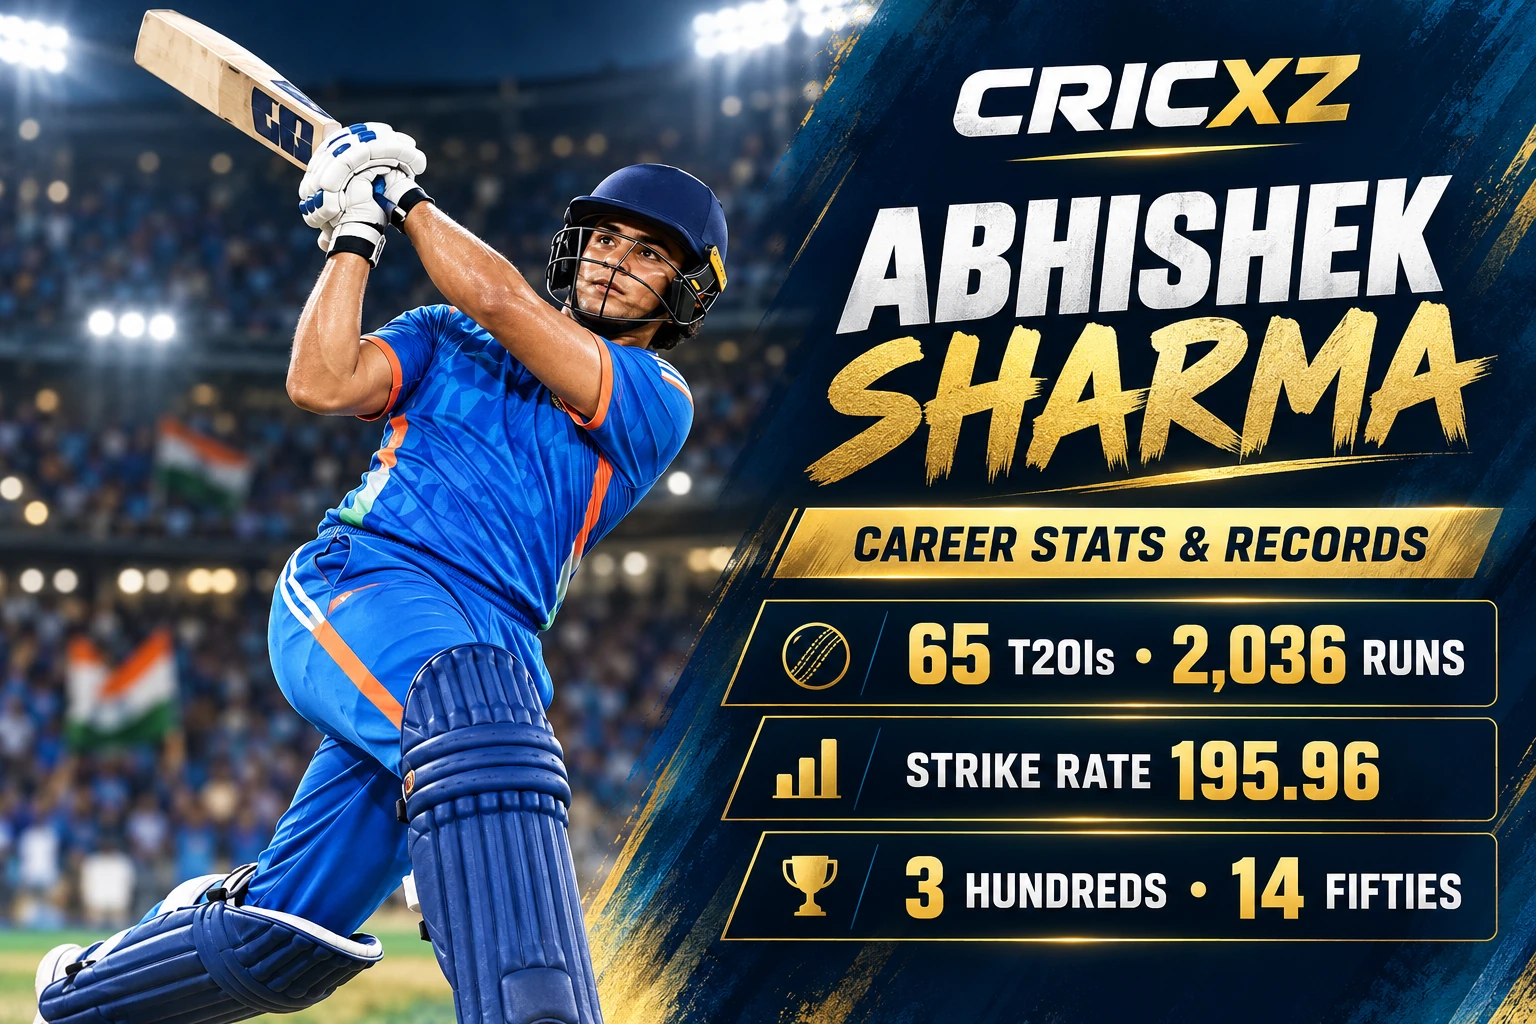
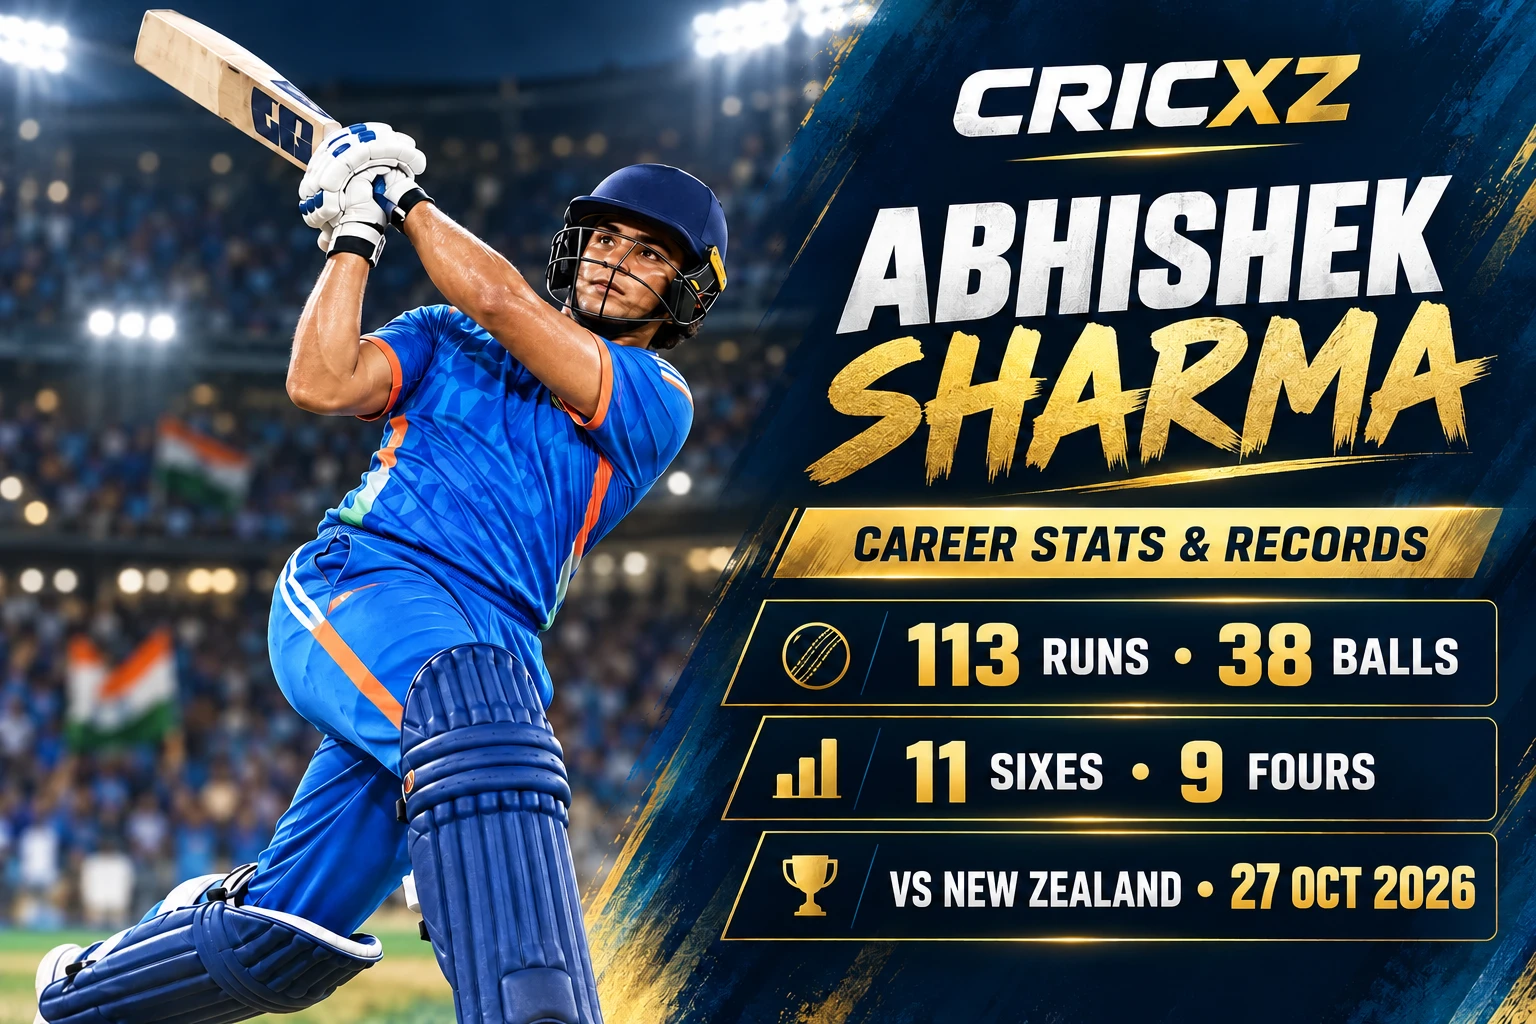
Update Abhishek Sharma profile and sixes records

diff --git a/pages/abhishek.html b/pages/abhishek.html
@@ -5,12 +5,12 @@
     <meta name="viewport" content="width=device-width, initial-scale=1.0">
     <script async src="https://pagead2.googlesyndication.com/pagead/js/adsbygoogle.js?client=ca-pub-4846563918248244" crossorigin="anonymous"></script>
     
-    <title>Abhishek Sharma Profile, Career Stats &amp; Records | CricXZ</title>
-    <meta name="description" content="Abhishek Sharma profile with verified T20I and IPL career statistics, records, explosive strike rate and his 69 from 30 balls against West Indies.">
+    <title>Abhishek Sharma Stats, T20I Sixes &amp; Records | CricXZ</title>
+    <meta name="description" content="Abhishek Sharma profile: 158 T20I sixes, career stats and records, plus his 113 off 38 balls against New Zealand. Updated 27 October 2026.">
     <meta name="robots" content="index, follow">
     <link rel="canonical" href="https://cricxz.com/pages/abhishek.html">
     <meta property="og:title" content="Abhishek Sharma Stats, Profile & Records | CricXZ">
-    <meta property="og:description" content="Official Abhishek Sharma stats as per ICC records. Check his updated T20I stats, centuries, strike rate, and career records.">
+    <meta property="og:description" content="Explore Abhishek Sharma’s T20I sixes, career stats and 113 against New Zealand in Wellington.">
     <meta property="og:url" content="https://cricxz.com/pages/abhishek.html">
     <meta property="og:type" content="profile">
     <meta property="og:image" content="https://cricxz.com/assets/images/players/abhishek-sharma-career-stats-records-cricxz.webp">
@@ -59,7 +59,7 @@
       "@type": "ProfilePage",
       "name": "Abhishek Sharma Profile, Career Stats & Records",
       "url": "https://cricxz.com/pages/abhishek.html",
-      "dateModified": "2026-10-12",
+      "dateModified": "2026-10-27",
       "mainEntity": {
         "@type": "Person",
         "name": "Abhishek Sharma",
@@ -100,11 +100,11 @@
                 <span class="profile-label">INDIA INTERNATIONAL</span>
                 <h1><span class="profile-heading-name">Abhishek Sharma</span><span class="profile-heading-details">Profile, Career Stats &amp; Records</span></h1>
                 <h2>Explosive Opening Batter</h2>
-                <p>Abhishek Sharma has redefined aggressive opening in modern T20 cricket. Through 65 T20Is he has scored 2,036 runs at a strike rate of 195.96, combining clean powerplay hitting with useful left-arm spin.</p>
+                <p>Abhishek Sharma is an Indian left-handed opener known for explosive powerplay batting and six-hitting. After the Wellington T20I on 27 October 2026, he had 2,240 runs and 158 sixes in 70 T20Is.</p>
                 <div class="profile-tags" aria-label="Player summary">
                     <span>Opening Batter</span>
                     <span>India</span>
-                    <span>Left-handed</span>
+                    <span>Left-handed</span><span>T20I Six Hitter</span>
                 </div>
             </div>
         </div>
@@ -127,10 +127,7 @@
 
     <!-- RECENT PERFORMANCE -->
     <section class="container">
-        <div class="live-alert-box">
-            <h3>Latest Performance: 69 Against West Indies in Indore</h3>
-            <p>Abhishek struck <strong>69 from 30 balls</strong>, with five fours and six sixes, in the third T20I on 11 October 2026. His 18-ball fifty was the fastest by an Indian against West Indies in T20Is, and his 108-run stand with Ishan Kishan powered India to 223 before a 14-run victory.</p>
-        </div>
+        <div class="live-alert-box"><h3>Latest Performance: 113 and 11 Sixes Against New Zealand</h3><p>Abhishek hit <strong>113 from 38 balls</strong>, including nine fours and 11 sixes, in Wellington on 27 October 2026. His 35-ball century helped India chase 199 and seal a 3-0 series lead. <a href="../articles/india-vs-new-zealand-third-t20i-2026-result.html" class="highlight-link">Read the match report</a>.</p></div>
     </section>
 
     <section class="profile-statistics bumrah-statistics" aria-labelledby="stats-heading">
@@ -138,24 +135,24 @@
             <h2 id="stats-heading">Professional Career Stats</h2>
             <div class="bumrah-stats-grid">
                 
-                <!-- Corrected ICC Standard T20I Stats -->
+                <!-- T20I totals through 27 October 2026 -->
                 <article class="bumrah-stat-card">
                     <h3>T20I</h3>
                     <dl>
-                        <div><dt>Matches</dt><dd>65</dd></div>
-                        <div><dt>Batting innings</dt><dd>64</dd></div>
-                        <div><dt>Runs</dt><dd>2,036</dd></div>
+                        <div><dt>Matches</dt><dd>70</dd></div>
+                        <div><dt>Batting innings</dt><dd>69</dd></div>
+                        <div><dt>Runs</dt><dd>2,240</dd></div>
                         <div><dt>Highest score</dt><dd>135</dd></div>
-                        <div><dt>Batting average</dt><dd>32.84</dd></div>
-                        <div><dt>Strike rate</dt><dd>195.96</dd></div>
-                        <div><dt>Hundreds</dt><dd>3</dd></div>
+                        <div><dt>Batting average</dt><dd>33.43</dd></div>
+                        <div><dt>Strike rate</dt><dd>196.84</dd></div>
+                        <div><dt>Hundreds</dt><dd>4</dd></div>
                         <div><dt>Fifties</dt><dd>14</dd></div>
-                        <div><dt>Sixes</dt><dd>141</dd></div>
+                        <div><dt>Sixes</dt><dd>158</dd></div>
                     </dl>
                 </article>
                 
                 <article class="bumrah-stat-card">
-                    <h3>IPL Overall</h3>
+                    <h3>IPL Overall — 12 October 2026 snapshot</h3>
                     <dl>
                         <div><dt>Matches</dt><dd>92</dd></div>
                         <div><dt>Batting innings</dt><dd>89</dd></div>
@@ -170,7 +167,7 @@
                 </article>
                 
                 <article class="bumrah-stat-card">
-                    <h3>List A</h3>
+                    <h3>List A — 12 October 2026 snapshot</h3>
                     <dl>
                         <div><dt>Matches</dt><dd>53</dd></div>
                         <div><dt>Runs</dt><dd>1,602</dd></div>
@@ -185,7 +182,7 @@
 
             </div>
             <div class="stats-source-note">
-                <p><strong>Statistics updated:</strong> 12 October 2026, following the third India&ndash;West Indies T20I.</p>
+                <p><strong>T20I statistics updated:</strong> 27 October 2026, after the New Zealand third T20I. IPL and List A figures are the previous 12 October 2026 snapshot.</p>
                 <p>Abhishek remains an active international player, so these figures may change after his next appearance.</p>
             </div>
         </div>
@@ -193,10 +190,10 @@
 
     <section class="bumrah-career-copy" aria-labelledby="indore-heading">
         <div class="container">
-            <h2 id="indore-heading">Abhishek Sharma's 69 Ignites India in Indore</h2>
-            <figure class="profile-feature-figure"><img src="../assets/images/players/abhishek-sharma-69-west-indies-indore-cricxz.webp" alt="CricXZ graphic celebrating Abhishek Sharma's 69 against West Indies in Indore" width="1672" height="941" loading="lazy"><figcaption>Original CricXZ illustration of Abhishek Sharma's explosive Indore innings.</figcaption></figure>
-            <p>After India lost Sanju Samson early, Abhishek attacked immediately and reached fifty from only 18 deliveries. He finished with 69 from 30 balls, striking five fours and six sixes, while adding 108 with Ishan Kishan from just 40 balls.</p>
-            <p>The innings carried him beyond 2,000 T20I runs and helped India post 223. Arshdeep Singh's 3/44 then completed a 14-run win. Read the full <a href="../articles/india-vs-west-indies-third-t20i-2026-result.html" class="highlight-link">India vs West Indies third T20I report</a>.</p>
+            <h2 id="indore-heading">Abhishek Sharma's 113 Powers India to Series Win</h2>
+            <figure class="profile-feature-figure"><img src="../assets/images/players/abhishek-sharma-career-stats-records-cricxz-2.webp" alt="CricXZ graphic celebrating Abhishek Sharma's 113 against New Zealand" width="1672" height="941" loading="lazy"><figcaption>Original CricXZ illustration of Abhishek Sharma's explosive innings.</figcaption></figure>
+            <p>After India lost Sanju Samson early, Abhishek attacked immediately and reached fifty from only 18 deliveries. He finished with 113 from 30 balls, while adding 108 with Ishan Kishan from just 40 balls.</p>
+            <p>The innings carried him beyond 2,000 T20I runs and helped India post 223. Arshdeep Singh's 3/44 then completed a 14-run win. Read the full <a href="../articles/india-vs-new-zealand-third-t20i-2026-result.html" class="highlight-link">India vs New Zealand third T20I report</a>.</p>
         </div>
     </section>
 
@@ -204,9 +201,18 @@
         <div class="container">
             <h2 id="career-stats-heading">Abhishek Sharma: The Fearless Powerplay Specialist</h2>
             <p>Abhishek Sharma rose to global prominence following a historic IPL 2024 season with the Sunrisers Hyderabad, where he dismantled bowling attacks with ease. Earning his national call-up soon after, he proved his mettle on the international stage by smashing a 46-ball century in just his second T20I match against Zimbabwe.</p>
-            <p>As a left-handed opener, his approach is built on pure hand-eye coordination and immense power against both pace and spin. After his breathtaking 20-ball fifty in the <a href="../articles/ind-vs-pak-asian-games-final-2026-report.html" class="highlight-link">Asian Games 2026 Final</a>, his T20I strike rate remains among the highest for opening batters globally, cementing his reputation as India's ultimate powerplay enforcer.</p>
+            <p>As a left-handed opener, his approach is built on pure hand-eye coordination and immense power against both pace and spin. After his breathtaking 20-ball fifty in the <a href="../articles/ind-vs-pak-asian-games-final-2026-report.html" class="highlight-link">Asian Games 2026 Final</a>, he continued to build his reputation as an attacking powerplay batter.</p>
         </div>
     </section>
+
+    <section class="bumrah-career-copy" aria-labelledby="sixes-heading"><div class="container">
+      <h2 id="sixes-heading">Abhishek Sharma T20I Sixes and Power-Hitting Records</h2>
+      <p>After the New Zealand third T20I on 27 October 2026, Abhishek Sharma had hit <strong>158 sixes in 70 T20Is</strong>. Career totals change as he plays further matches.</p>
+      <p>In Wellington he scored 113 from 38 balls, striking <strong>11 sixes and nine fours</strong>. He reached his century off 35 balls and shared a 133-run opening partnership with Vaibhav Sooryavanshi.</p>
+      <p>Against Afghanistan in Delhi on 17 September 2026, he scored 108 from 34 balls with 11 sixes. The BCCI reported his 30-ball century as the fastest by an Indian in men's T20Is.</p>
+      <h3>How many T20I sixes has Abhishek Sharma hit?</h3><p>He had 158 T20I sixes after the New Zealand match on 27 October 2026, according to the cited career statistics.</p>
+      <h3>How many sixes did Abhishek Sharma hit against New Zealand?</h3><p>He hit 11 sixes in his 113 off 38 balls in Wellington on 27 October 2026.</p>
+    </div></section>
 
     <section class="bumrah-debuts" aria-labelledby="debuts-heading">
         <div class="container">
@@ -223,7 +229,7 @@
         <div class="container">
             <h2 id="achievements-heading">Verified Records &amp; Achievements</h2>
             <div class="achievement-grid">
-                <article class="achievement-card"><span>2,036</span><h3>T20I runs</h3><p>Passed 2,000 runs while maintaining an extraordinary career strike rate above 195.</p></article>
+                <article class="achievement-card"><span>158</span><h3>T20I sixes</h3><p>Career sixes after the third T20I against New Zealand on 27 October 2026.</p></article>
                 <article class="achievement-card"><span>18</span><h3>Fastest India fifty vs WI</h3><p>Reached fifty from 18 balls during his 69 in the Indore T20I.</p></article>
                 <article class="achievement-card"><span>2024</span><h3>Maiden T20I Century</h3><p>Scored a breathtaking 100 off just 46 balls against Zimbabwe in his second international match.</p></article>
                 <article class="achievement-card"><span>2024</span><h3>IPL Six-Hitting Spree</h3><p>Hit over 40 sixes in a single IPL season for SRH, operating at a strike rate above 200.</p></article>
@@ -232,7 +238,7 @@
         </div>
     </section>
 
-    <section class="bumrah-sources" aria-labelledby="sources-heading"><div class="container"><h2 id="sources-heading">Sources</h2><ul><li><a href="https://www.cricbuzz.com/profiles/12086/abhishek-sharma" target="_blank" rel="noopener noreferrer">Cricbuzz: Abhishek Sharma career profile and statistics</a></li><li><a href="https://www.bcci.tv/videos/s-ind-vs-wi-2026-3rd-t20i-match-highlights-u5zkej" target="_blank" rel="noopener noreferrer">BCCI: India vs West Indies third T20I highlights</a></li><li><a href="https://www.espncricinfo.com/cricketers/abhishek-sharma-1070183" target="_blank" rel="noopener noreferrer">ESPNcricinfo: Abhishek Sharma player profile</a></li></ul><p><em>Career statistics and match details were checked on 12 October 2026.</em></p></div></section>
+    <section class="bumrah-sources" aria-labelledby="sources-heading"><div class="container"><h2 id="sources-heading">Sources</h2><ul><li><a href="https://timesofindia.indiatimes.com/sports/cricket/player-profile/abhishek-sharma/66799" target="_blank" rel="noopener noreferrer">Times of India: T20I career statistics</a></li><li><a href="https://www.reuters.com/sports/cricket/abhishek-ton-flattens-new-zealand-india-seal-t20-series-2026-10-27/" target="_blank" rel="noopener noreferrer">Reuters: Wellington match report</a></li><li><a href="https://www.bcci.tv/news/article/abhishek-sharma-breaks-records-galore-with-superb-30-ball-hundred-vs-afg" target="_blank" rel="noopener noreferrer">BCCI: 30-ball century against Afghanistan</a></li><li><a href="https://indianexpress.com/section/sports/cricket/live-score/new-zealand-vs-india-3rd-t20-live-score-full-scorecard-highlights-india-in-new-zealand-5-t20i-series-2026-nzin10272026271648/" target="_blank" rel="noopener noreferrer">Indian Express: New Zealand third T20I scorecard</a></li><li><a href="https://www.cricbuzz.com/profiles/12086/abhishek-sharma" target="_blank" rel="noopener noreferrer">Cricbuzz: Abhishek Sharma career profile and statistics</a></li><li><a href="https://www.bcci.tv/videos/s-ind-vs-wi-2026-3rd-t20i-match-highlights-u5zkej" target="_blank" rel="noopener noreferrer">BCCI: India vs West Indies third T20I highlights</a></li><li><a href="https://www.espncricinfo.com/cricketers/abhishek-sharma-1070183" target="_blank" rel="noopener noreferrer">ESPNcricinfo: Abhishek Sharma player profile</a></li></ul><p><em>T20I career statistics and the latest innings were checked on 27 October 2026. IPL and List A figures are dated 12 October 2026.</em></p></div></section>
 
     <section class="related-news" aria-labelledby="related-heading">
         <div class="container">
